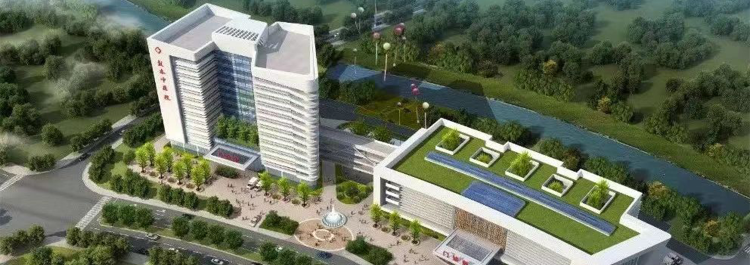
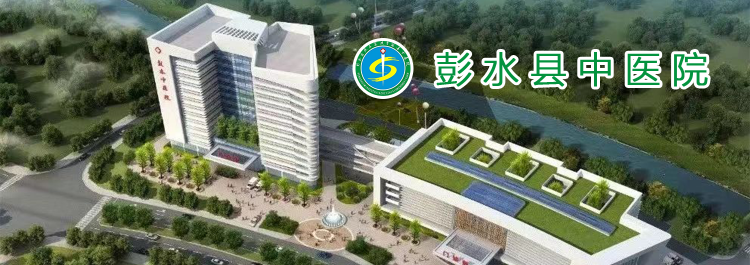
feat: 首页banner修改

Changed region(s): [[0.46, 0.1208, 0.9507, 0.3925]]

diff --git a/packages/40011/src/pages/home/index.tsx b/packages/40011/src/pages/home/index.tsx
@@ -384,11 +384,11 @@ export default () => {
         className={styles.bannerImg}
         isPreviewImage
       >
-        <Image
+        {/* <Image
           src={`${IMAGE_DOMIN}/auth/logo.png`}
           mode="aspectFill"
           className={styles.logo}
-        />
+        /> */}
         <Space
           className={styles.microsite}
           justify="center"
